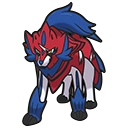
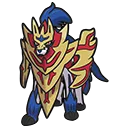
흑마렉스

diff --git a/src/function/damage.js b/src/function/damage.js
@@ -1,5 +1,5 @@
 import { recover } from "../function/recover";
-
+import { rank } from "./rank";
 // ====================== 공통 유틸 함수 ======================
 
 // HP 감소 적용
@@ -10,15 +10,34 @@ function applyDamage(defPokemon, damage) {
 }
 
 // 기절 처리
-function handleFaint(defPokemon, enqueue, battle) {
+function handleFaint(defPokemon, enqueue, battle, atkAbil) {
   defPokemon.hp = 0;
   defPokemon.faint = true;
   Object.keys(defPokemon.status).forEach((k) => (defPokemon.status[k] = null));
   enqueue({ battle, text: defPokemon.names + " 쓰러졌다!" });
+
+  const faintRankUpAbils = {
+    "혼연일체(흑)": "catk",
+    "혼연일체(백)": "atk",
+    자기과신: "atk",
+  };
+  if (Object.keys(faintRankUpAbils).includes(atkAbil)) {
+    let abilName = atkAbil;
+    if (abilName.startsWith("혼연일체")) {
+      abilName = "혼연일체";
+    }
+    rank(battle, enqueue, battle[battle.turn.atk], faintRankUpAbils[atkAbil], 1, "[특성 " + abilName + "]");
+    return;
+  }
 }
 
 // 자뭉열매 처리
-function tryBerry(defPokemon, battle, enqueue) {
+function tryBerry(defPokemon, battle, enqueue, atkAbil) {
+  let noBerryAbil = ["혼연일체(흑)", "혼연일체(백)", "긴장감"];
+
+  if (noBerryAbil.includes(atkAbil)) {
+    return;
+  }
   if (defPokemon.item === "자뭉열매" && defPokemon.hp <= defPokemon.origin.hp / 2) {
     defPokemon.item = null;
     recover(battle, Math.floor(defPokemon.origin.hp / 4), defPokemon, enqueue, defPokemon.names + " 자뭉열매로 체력을 회복했다!");
@@ -119,13 +138,14 @@ export function attackDamage(battle, skillDamage, getDamagePokemon, enqueue, typ
   }
 
   // ================= 후처리 =================
+  let atkAbil = battle[battle.turn.atk].abil;
   if (defPokemon.hp <= 0) {
-    handleFaint(defPokemon, enqueue, battle);
+    handleFaint(defPokemon, enqueue, battle, atkAbil);
   } else {
     // 출력 텍스트가 하나도 없을 때
     if (textTrigger) {
       enqueue({ battle, text: defPokemon.name + "에게 데미지를 주었다!" });
     }
-    tryBerry(defPokemon, battle, enqueue);
+    tryBerry(defPokemon, battle, enqueue, atkAbil);
   }
 }

diff --git a/src/util/typeCheck.js b/src/util/typeCheck.js
@@ -19,11 +19,7 @@ export const typeCheckAbil = (battle, stype, type1, type2) => {
   // 특성 등을 반영한 실제 상성적용
   // 저수, 피뢰침 같은 특성은 텍스트엔 무효로 안나오게 해야하므로 함수 따로 사용
   if (typeChart[stype][type1] === 0 || typeChart[stype][type2] === 0) {
-    if (
-      battle[battle.turn.atk].abil === "심안" &&
-      (stype === "격투" || stype === "노말") &&
-      (type1 === "고스트" || type2 === "고스트")
-    ) {
+    if (battle[battle.turn.atk].abil === "심안" && (stype === "격투" || stype === "노말") && (type1 === "고스트" || type2 === "고스트")) {
       // 그냥 지나가게
     } else {
       return 0;
@@ -43,7 +39,10 @@ export const typeCheckAbil = (battle, stype, type1, type2) => {
   return typeDamage;
 };
 
-export const typeCheckConsole = (stype, type1, type2) => {
+export const typeCheckConsole = (stype, type1, type2, skillType) => {
+  if (skillType === "natk" || skillType === "buf") {
+    return;
+  }
   const typeDamage = typeCheck(stype, type1, type2);
   if (typeDamage === 1) {
     return "○ 효과가 있음";
@@ -117,6 +116,7 @@ const typeChart = {
     불꽃: 0.5,
     물: 0.5,
     강철: 0.5,
+    얼음: 0.5,
     기타: 1,
   },
   격투: {
@@ -155,13 +155,14 @@ const typeChart = {
     기타: 1,
   },
   비행: { 풀: 2, 격투: 2, 벌레: 2, 전기: 0.5, 바위: 0.5, 강철: 0.5, 기타: 1 },
-  에스퍼: { 격투: 2, 독: 2, 에스퍼: 0.5, 악: 0.5, 강철: 0.5, 기타: 1 },
+  에스퍼: { 격투: 2, 독: 2, 에스퍼: 0.5, 악: 0, 강철: 0.5, 기타: 1 },
   벌레: {
     풀: 2,
     에스퍼: 2,
     악: 2,
     불꽃: 0.5,
     격투: 0.5,
+    독: 0.5,
     비행: 0.5,
     고스트: 0.5,
     강철: 0.5,

diff --git a/src/service/abil.js b/src/service/abil.js
@@ -52,6 +52,24 @@ export const abil = (bt, atks, enqueue) => {
     rank(bt, enqueue, defs, "atk", -1, text);
   }
 
+  if (atkAbil === "혼연일체(흑)" || atkAbil === "혼연일체(백)") {
+    const text = "[특성 혼연일체]";
+    enqueue({
+      battle: bt,
+      text: "[특성 혼연일체] " + atk.names + " 두 가지 특성을 겸비한다!",
+    });
+    let team;
+    if (atk.team === "player") {
+      team = "상대";
+    } else {
+      team = "우리";
+    }
+    enqueue({
+      battle: bt,
+      text: "[특성 혼연일체] " + team + " 편은 긴장해서 나무열매를 먹을 수 없게 되었다!",
+    });
+  }
+
   const stats = {
     atk: atk.atk,
     def: atk.def,
@@ -122,6 +140,7 @@ export const abil = (bt, atks, enqueue) => {
 
   if (bt.field[atks].sRock && atk.item !== "통굽부츠") {
     //스텔스록
+    //맞교체일떄 고려하면 함수 따로 파야하긴 하는데
     const text = atk.name + "에게 뾰족한 바위가 박혔다!";
     const typeDamage = typeCheck("바위", atk.type1, atk.type2);
     damage(bt, Math.floor((atk.origin.hp * typeDamage) / 8), atks, enqueue, text);

diff --git a/src/entity/Pokemon/PokemonOriginal.js b/src/entity/Pokemon/PokemonOriginal.js
@@ -56,7 +56,8 @@ new Pokemon("0815", "에이스번", 530, 80, 116, 75, 65, 75, 119, "불꽃", nul
 new Pokemon("0888", "자시안", 720, 92, 170, 115, 80, 115, 148, "페어리", "강철"),
 new Pokemon("0889", "자마젠타", 720, 92, 130, 145, 80, 145, 128, "격투", "강철"),
 new Pokemon("0890", "무한다이노", 690, 140, 85, 95, 145, 95, 130, "독", "드래곤"),
-new Pokemon("0897", "흑마렉스", 680, 1008, 85, 80, 165, 100, 150, "에스퍼", "고스트"),
+new Pokemon("0896", "백마렉스", 680, 100, 165, 150, 85, 130, 50, "에스퍼", "얼음"),
+new Pokemon("0897", "흑마렉스", 680, 100, 85, 80, 165, 100, 150, "에스퍼", "고스트"),
 new Pokemon("0901", "다투곰", 550, 130, 140, 105, 45, 80, 50, "땅", "노말"),
 new Pokemon("0902", "달투곰", 555, 113, 70, 120, 135, 65, 52, "땅", "노말"),
 new Pokemon("0977", "어써러셔", 530, 150, 100, 115, 65, 65, 35, "물", null),

diff --git a/src/entity/Skill/SkillEffect.js b/src/entity/Skill/SkillEffect.js
@@ -282,6 +282,29 @@ function skillEffectSearch(name) {
         });
       }
     },
+    트릭: (battle, enqueue, skillEffect) => {
+      const def = battle[battle.turn.def];
+      const atk = battle[battle.turn.atk];
+
+      if (noNullItem.includes(atk.item) || noNullItem.includes(def.item)) {
+        enqueue({
+          battle,
+          text: "하지만 실패했다!",
+        });
+        return;
+      }
+      // 아이템 교환
+      [atk.item, def.item] = [def.item, atk.item];
+      [atk.itemText, def.itemText] = [def.itemText, atk.itemText];
+
+      // 구애 시리즈로 고정된 스킬 초기화
+      atk.tempStatus.onlySkill = null;
+      def.tempStatus.onlySkill = null;
+      enqueue({
+        battle,
+        text: atk.names + " 서로의 도구를 교체했다!",
+      });
+    },
   };
 
   return functions[name] || null;

diff --git a/src/function/rank.js b/src/function/rank.js
@@ -1,18 +1,13 @@
 import { statCalculate } from "./statCalculate";
 
-export const rank = (
-  battle,
-  enqueue,
-  rankPokemon,
-  rankType,
-  rankValue,
-  text
-) => {
+export const rank = (battle, enqueue, rankPokemon, rankType, rankValue, text) => {
   let pokemon;
   if (rankPokemon === "npc") {
     pokemon = battle.npc;
   } else if (rankPokemon === "player") {
     pokemon = battle.player;
+  } else if (typeof rankPokemon === "object" && rankPokemon !== null) {
+    pokemon = rankPokemon; // 이미 포켓몬 객체일 경우 그대로 할당
   }
   let rank = pokemon.tempStatus.rank;
   let rankText = pokemon.name + "의 " + getStatName(rankType); //공격'은' 더 이상 올라갈 수 없다!

diff --git a/src/service/skillUse.js b/src/service/skillUse.js
@@ -75,8 +75,11 @@ export const skillUse = (bt, enqueue) => {
     }
   } else if (skillType === "natk") {
     // 도깨비불 같은 상대방 지정 변화기
+    const natkTypeCheckSkills = ["전기자석파"];
+    // 변화기는 타입 상성의 영향을 받지 않는다
+    // 근데 전기자석파는 제외
     let typeDamage = typeCheckAbil(bt, sk.type, def.type1, def.type2);
-    if (typeDamage === 0) {
+    if (typeDamage === 0 && natkTypeCheckSkills.includes(sk.name)) {
       const typeText = bt[bt.turn.def].name + "에겐 효과가 없는 것 같다...";
       enqueue({ battle: bt, text: typeText });
       return;

diff --git a/src/entity/Pokemon/PokemonCustom.js b/src/entity/Pokemon/PokemonCustom.js
@@ -148,6 +148,8 @@ const abilText = {
   천진: "상대의 능력 변화를 무시하고 싸울 수 있다.",
   위협: "등장했을 상대를 위축시켜 공격을 떨어뜨린다.",
   고대활성: "부스트에너지를 지니고 있거나 날씨가 맑을 때 가장 높은 능력이 올라간다.",
+  "혼연일체(흑)": "상대를 긴장시켜 나무열매를 먹지 못하게 한다. 상대를 쓰러뜨리면 특수공격이 올라간다.",
+  "혼연일체(백)": "상대를 긴장시켜 나무열매를 먹지 못하게 한다. 상대를 쓰러뜨리면 공격이 올라간다.",
 };
 
 export const pokemonList = [];

diff --git a/src/component/Bottom/Bottom-info/InfoSkillButton.js b/src/component/Bottom/Bottom-info/InfoSkillButton.js
@@ -16,9 +16,7 @@ const LongSkillButton = ({ battle, skillNumber, setText, pokemon }) => {
     <ButtonContainer className={sn} onClick={() => setText(sk.text)}>
       <SkillTypeIcon src={`/pokemon/img/type/${sk.type}.svg`} alt={sk.name} />
       <SkillName>{sk.name}</SkillName>
-      <SkillEffect>
-        {typeCheckConsole(sk.type, battle.npc.type1, battle.npc.type2)}
-      </SkillEffect>
+      <SkillEffect>{typeCheckConsole(sk.type, battle.npc.type1, battle.npc.type2, sk.stype)}</SkillEffect>
       <SkillPP>
         {pokemon[pp]}/{sk.pp}
       </SkillPP>

diff --git a/src/screen/BattleScreen.js b/src/screen/BattleScreen.js
@@ -52,7 +52,7 @@ const Battle = () => {
     if (!testMode && battleObject) {
       setBattle(battleObject); // 상태 업데이트
     } else {
-      battleObject = createBattle(["0897-1", "0901-1", "0901-1"], ["0812-1", "0901-1", "0901-1"]);
+      battleObject = createBattle(["0889-1", "0901-1", "0901-1"], ["0888-1", "0901-1", "0901-1"]);
     }
     queueObject.enqueue({ battle: battleObject, text: "배틀시작!" });
     const fastUser = speedCheck(battleObject);

diff --git a/src/component/Bottom/Bottom-Skill/SkillButton.js b/src/component/Bottom/Bottom-Skill/SkillButton.js
@@ -45,7 +45,7 @@ const SkillButton = ({ battle, skillNumber, queueObject, pokemon, setText }) => 
       }}>
       <ICON src={`/pokemon/img/type/${sk.type}.svg`} alt={sk.name} />
       <NAME skname={sk.name}>{sk.name}</NAME>
-      <EFFECT>{typeCheckConsole(sk.type, battle.npc.type1, battle.npc.type2)}</EFFECT>
+      <EFFECT>{typeCheckConsole(sk.type, battle.npc.type1, battle.npc.type2, sk.stype)}</EFFECT>
       <PP>
         {battle.player[pp]}/{sk.pp}
       </PP>

diff --git a/src/entity/Skill/Skill.js b/src/entity/Skill/Skill.js
@@ -492,6 +492,12 @@ class SkillList {
         "catk", null, 
         "물리적인 데미지를 준다.",
         [],{}),
+      
+      new Skill("트릭", "에스퍼", 
+        "-", 100, 10, 0,  
+        "natk", null, 
+        "상대의 빈틈을 노려 자신과 상대가 지닌 물건을 바꿔치기한다.",
+        [{ name: "트릭" }], {}),
     ];
   }
   // ID로 객체 찾기
